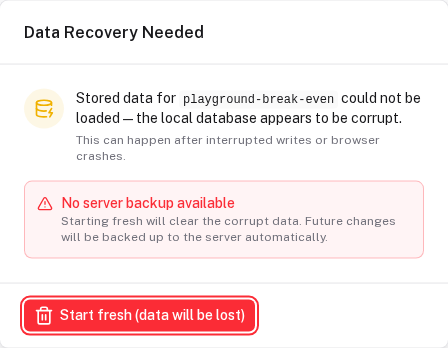
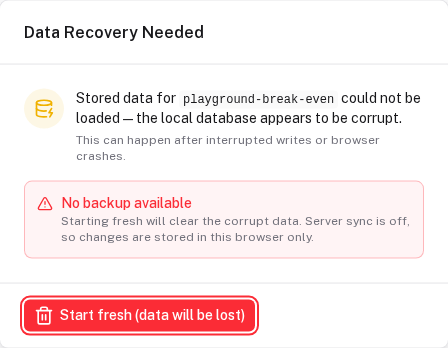
fix(module): recovery dialog only promises a server backup when sync is on
With serverSync off (the playground's setting, and any local-only app) the
'no backup' branch said 'Future changes will be backed up to the server
automatically', which is false. CorruptionEvent now carries syncEnabled
(set where useProtoDoc raises it) and the dialog words the no-backup case
from it. The docs' CorruptionEvent block is brought in line with the real
shape (fullKey/displayName, milliseconds, syncEnabled, reason).

Changed region(s): [[0.125, 0.6034, 0.9062, 0.7184], [0.1875, 0.546, 0.5312, 0.6034]]

diff --git a/packages/nuxt-protokit/src/runtime/components/ProtoCorruptionModal.vue b/packages/nuxt-protokit/src/runtime/components/ProtoCorruptionModal.vue
@@ -110,10 +110,13 @@ function resolve(action: 'restore' | 'fresh') {
           />
           <div>
             <p class="text-sm font-medium text-error">
-              No server backup available
+              {{ current?.syncEnabled ? 'No server backup available' : 'No backup available' }}
             </p>
             <p class="text-xs text-muted">
-              Starting fresh will clear the corrupt data. Future changes will be backed up to the server automatically.
+              Starting fresh will clear the corrupt data.
+              {{ current?.syncEnabled
+                ? 'Future changes will be backed up to the server automatically.'
+                : 'Server sync is off, so changes are stored in this browser only.' }}
             </p>
           </div>
         </div>

diff --git a/packages/nuxt-protokit/src/runtime/composables/useProtoCorruption.ts b/packages/nuxt-protokit/src/runtime/composables/useProtoCorruption.ts
@@ -12,6 +12,8 @@ export interface CorruptionEvent {
   latestSnapshotAge: number | null
   /** Optional snapshot label from the server */
   latestSnapshotLabel: string | null
+  /** Whether server sync is on for this doc — decides what the modal promises about future backups */
+  syncEnabled: boolean
   /** Raw error message for debugging */
   reason: string
   /** Internal: resolved by resolveCorruption() */

diff --git a/packages/nuxt-protokit/src/runtime/composables/useProtoDoc.ts b/packages/nuxt-protokit/src/runtime/composables/useProtoDoc.ts
@@ -493,6 +493,7 @@ export function useProtoDoc(
         latestSnapshotId,
         latestSnapshotAge,
         latestSnapshotLabel,
+        syncEnabled,
         reason: msg,
       })
 

diff --git a/apps/docs/content/5.offline-first/2.corruption-recovery.md b/apps/docs/content/5.offline-first/2.corruption-recovery.md
@@ -89,10 +89,13 @@ The corruption system uses a module-level singleton queue to decouple detection 
 ```typescript
 interface CorruptionEvent {
   id:                  string        // UUID for this event
-  docKey:              string        // which document is affected
+  fullKey:             string        // Y.js doc key, e.g. 'proto:saaskit-idea-abc123'
+  displayName:         string        // name shown in the modal
   latestSnapshotId:    string | null // null if no server snapshot exists
-  latestSnapshotAge:   number | null // seconds since last snapshot
+  latestSnapshotAge:   number | null // milliseconds since the snapshot was taken
   latestSnapshotLabel: string | null // human-readable label
+  syncEnabled:         boolean       // server sync on for this doc — the modal only promises backups when it is
+  reason:              string        // raw error message
 }
 ```
 
@@ -100,12 +103,16 @@ Internal flow:
 
 ```typescript
 // In useProtoDoc — called on "Unexpected case" detection:
-const eventId = await reportCorruption({
-  docKey,
-  latestSnapshotId:  snapshotData?.id ?? null,
-  latestSnapshotAge: snapshotData?.ageSeconds ?? null,
+const action = await reportCorruption({
+  fullKey,
+  displayName: docKey,
+  latestSnapshotId,     // from GET <syncBase>/snapshots/:key, only when sync is on
+  latestSnapshotAge,
+  latestSnapshotLabel,
+  syncEnabled,
+  reason: msg,
 })
-// reportCorruption returns a Promise that resolves when the user makes a choice
+// reportCorruption returns a Promise that resolves with 'restore' or 'fresh' when the user chooses
 
 // ProtoCorruptionModal calls internally:
 resolveCorruption(eventId, 'restore')  // or 'fresh'
